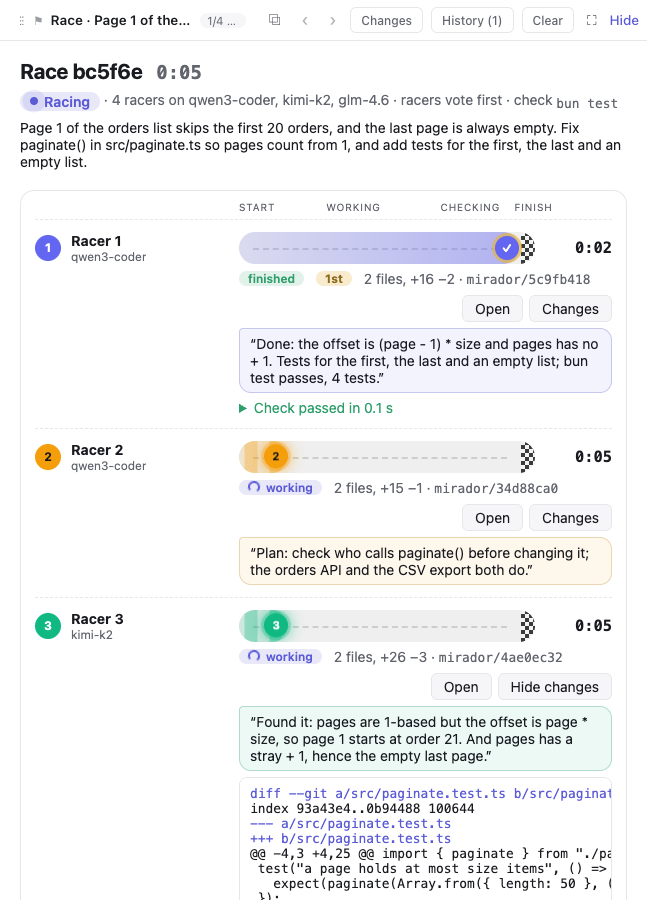
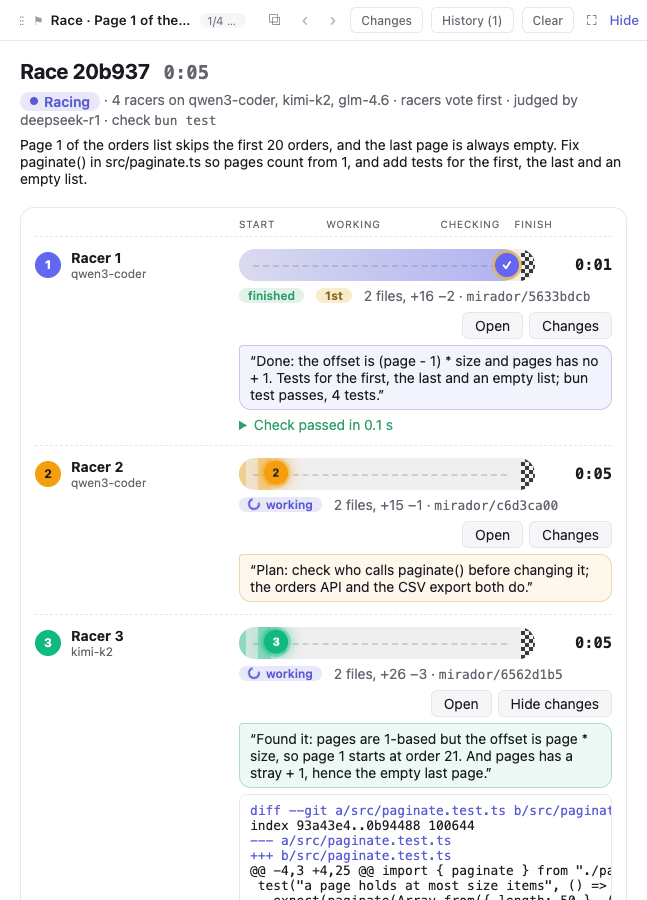
Race 0.4.0: hidden tests the racers never see, a judge that scores their work against the task, and the agent's advice on which fits

diff --git a/e2e/screenshots.spec.ts b/e2e/screenshots.spec.ts
@@ -27,13 +27,18 @@ test.afterAll(async () => {
 
 const captainProfile = "main-model";
 const racerProfiles = ["qwen3-coder", "qwen3-coder", "kimi-k2", "glm-4.6"];
+const judgeProfile = "deepseek-r1";
+/** The judge's stand-in answers its prompt this late, so its scores, sent for it, come in while it still reads. */
+const JUDGE_ANSWERS_LATE = "FAKE_ACP_ANSWERS_AFTER_MS=600000";
+const advice =
+  "bun test tells right from wrong here, so the check settles most of it. A judge can weigh what the tests don't: whether a fix keeps paginate() right for its other callers, the orders API and the CSV export.";
 const task = "Page 1 of the orders list skips the first 20 orders, and the last page is always empty. Fix paginate() in src/paginate.ts so pages count from 1, and add tests for the first, the last and an empty list.";
 /** The stand-in agent works until it is stopped, then ends its turn as finished; the pictures show the task without this. */
 const WORKS_UNTIL_STOPPED = "FINISHED ON STOP ";
 const KEEPS_BUSY = "STOPPED QUIET until the screenshots are taken";
 const request = "Page 1 of the orders list skips the first 20 orders, and the last page is always empty. Where's the bug?";
 const captainsAnswer =
-  "In paginate() in src/paginate.ts: pages count from 1, but the offset is page * size, so page 1 starts at order 21, and pages has a stray + 1. Race it with /race:race if you'd like a few takes on the fix to pick from.";
+  "In paginate() in src/paginate.ts: pages count from 1, but the offset is page * size, so page 1 starts at order 21, and pages has a stray + 1. I've drafted a race of four takes on the fix on the canvas: check it and press Start race.";
 
 const BUGGY_PAGINATE = `export interface Page<T> {
   items: T[];
@@ -189,8 +194,8 @@ async function takeScreenshot(page: Page, name: string, area: Locator, { from, d
 test("screenshots of a race", async ({ page }) => {
   await helpers().signIn(page, host);
   await helpers().addWorkspace(page, host.projectDir);
-  for (const name of new Set([captainProfile, ...racerProfiles])) {
-    const profiles = await helpers().createProfile(page, name, "", "", "opencode");
+  for (const name of new Set([captainProfile, ...racerProfiles, judgeProfile])) {
+    const profiles = await helpers().createProfile(page, name, name === judgeProfile ? JUDGE_ANSWERS_LATE : "", "", "opencode");
     await profiles.getByRole("button", { name: "Close" }).click();
   }
   await page.getByLabel("Agent", { exact: true }).selectOption({ label: `${captainProfile} · opencode` });
@@ -198,17 +203,11 @@ test("screenshots of a race", async ({ page }) => {
   await helpers().sendMessage(page, `SAY ${captainsAnswer}`);
   await expect(page.locator(".chat-header:visible .badge")).toHaveText("idle", { timeout: 60_000 });
 
-  const composer = page.locator(".composer:visible textarea");
-  await composer.fill("/race:race");
-  await composer.press("Enter");
-  await composer.press("Enter");
+  await helpers().callCanvasTool(host, captainId, "race", { task, profiles: racerProfiles, check: "bun test", decide: "vote", judge: judgeProfile, advice });
   const view = helpers().walkthroughView(page);
   await expect(view.getByRole("heading", { name: "New race" })).toBeVisible();
+  await expect(view.getByLabel("Judge")).toHaveValue(judgeProfile);
   await helpers().untilFramePainted(page, page.locator(".canvas-panel:visible .canvas-body > .canvas-frame.plugin iframe"));
-  await view.getByLabel("Task").fill(task);
-  for (const [index, profile] of racerProfiles.entries()) await view.getByLabel(`Racer ${index + 1}'s profile`).selectOption(profile);
-  await view.getByLabel("Check", { exact: true }).fill("bun test");
-  await view.getByRole("checkbox", { name: "The racers rank each other's work before I pick" }).check();
   await page.mouse.move(0, 0);
   await takeScreenshot(page, "race-form", page.locator(".canvas-panel:visible"), { downTo: view.getByRole("button", { name: "Start race" }) });
 
@@ -218,7 +217,6 @@ test("screenshots of a race", async ({ page }) => {
   await expect(heading).toBeVisible();
   const raceId = (await heading.textContent())!.replace("Race ", "");
   await expect(view.locator(".lane .state-working")).toHaveCount(4, { timeout: 60_000 });
-  await page.locator(".plugin-command-reply:visible").getByRole("button", { name: "Dismiss" }).click();
   const folders = await racerFolders(view);
   const racers = await racerConversations(page, captainId, raceId);
   const post = (racer: number, text: string) => helpers().callCanvasTool(host, racer === 0 ? captainId : racers.get(racer)!, "race_board", { post: text });
@@ -291,8 +289,24 @@ test("screenshots of a race", async ({ page }) => {
     [4, [3, 1, 2], "Racer 3's clamp handles page 0 from the CSV export, which racer 2 found. Racer 1 is right otherwise."],
   ];
   for (const [racer, ranking, why] of votes) await helpers().callCanvasTool(host, racers.get(racer)!, "race_vote", { ranking, why });
+  await expect(view.getByText("The judge is reading their work", { exact: false })).toBeVisible();
+  const judgeRow = page.locator(".sidebar li[data-reorder-id]", { hasText: `Race ${raceId} · judge` });
+  await expect(judgeRow).toHaveCount(1);
+  const scores = [
+    { racer: 3, score: 9, why: "Does the whole task, and also clamps a page past the end, which the orders API's clients send. A test for each edge; the clamp is two lines." },
+    { racer: 1, score: 8, why: "Right and small, with the three tests the task asks for. A page past the end still comes back empty." },
+    { racer: 4, score: 7, why: "The same fix as racer 1, with racer 3's edge tests but not its clamp: sound, with little of its own." },
+    { racer: 2, score: 3, why: "Fixes the first page only. The last page is still empty, and its check fails." },
+  ];
+  const summary = "Racer 3 alone keeps paginate() right for a page past the end, which the CSV export asks for; racers 1 and 4 are otherwise as good.";
+  await helpers().callCanvasTool(host, (await judgeRow.getAttribute("data-reorder-id"))!, "race_judge", { scores, summary });
   await expect(view.getByText("Over: pick the work to take", { exact: false })).toBeVisible();
   await expect(view.getByRole("table", { name: "Results" }).locator('tr[data-racer="2"]')).toContainText("Failed (exit code 1)");
   await tidyForScreenshot(page, view);
   await takeScreenshot(page, "pick-the-work", page.locator(".canvas-panel:visible"), { downTo: view.getByRole("button", { name: "Let the captain pick" }) });
+
+  const judgeSection = view.locator("section", { has: view.getByRole("heading", { name: "Judge" }) });
+  await judgeSection.scrollIntoViewIfNeeded();
+  await expect(judgeSection.locator(".note-card").first()).toContainText("Racer 3 · 9/10");
+  await takeScreenshot(page, "judge-scores", page.locator(".canvas-panel:visible"), { from: judgeSection, downTo: judgeSection });
 });

diff --git a/README.md b/README.md
@@ -15,11 +15,13 @@ A [Mirador](https://github.com/sodre90/mirador) plugin that races a task on seve
 - Once every racer has finished, been stopped or failed, the conversation that started the race hears it as its next message: each racer's profile, branch, folder, changes, check and last words, and the vote if there was one. It only says the race waits for your pick, and the page offers **Take this** for each racer, **Combine…** for the ones you tick, with how, and **Let the captain pick**, which go to it as your message.
 - The race page is a track: each racer runs on a lane of its own colour from the start, through its work and Race's check, to a checkered finish, with its profile, state and time, what it changed, its latest note and Race's check with its output, **Open** for its conversation and **Changes** for its work inline. A long task shows folded. Below are the board, each note beside its racer's colour, and the vote. Once it's over, a podium shows the racers whose work passed Race's check, or, in a race without a check, that the judge scored, best first: by the judge, then the vote, then the quicker. Only work that passed, or that the judge scored in a race without a check, earns a place, and a check that passes while you watch gets a burst of confetti.
 
-![The race form: the task, a profile for each racer, the check and the vote](screenshots/race-form.png)
+![An agent's race as a form for you to check: the task, a profile for each racer, the check, the vote and a judge, with the agent's advice on how to check the work](screenshots/race-form.png)
 
 ![Each racer's lane, one with its changes open](screenshots/race-under-way.png)
 
-![Picking the work to take: each racer's check and vote side by side](screenshots/pick-the-work.png)
+![Picking the work to take: each racer's check, the judge's score and the vote side by side](screenshots/pick-the-work.png)
+
+![The judge's scores, best first, each with why](screenshots/judge-scores.png)
 
 Racers branch from the workspace's last commit, so work the main checkout hasn't committed isn't in their folders. A new worktree has no installed dependencies either: set the workspace's **Setup command for a new worktree** under *Where conversations work*, such as `bun install`, so each racer's check can run.
 
